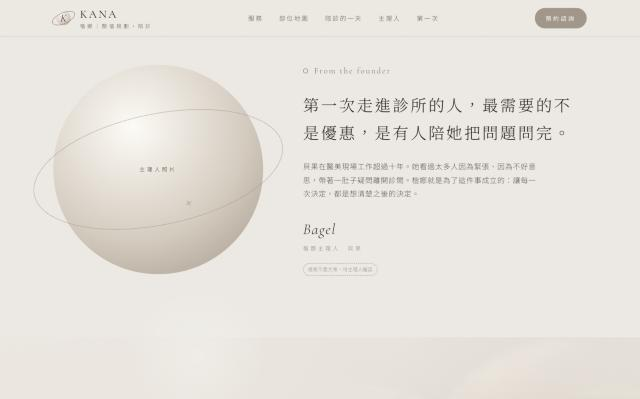
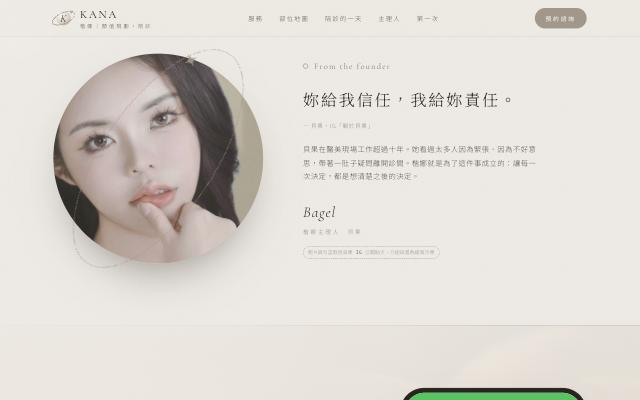
kana: 規劃書 v0.2

diff --git a/kana/plan/index.html b/kana/plan/index.html
@@ -3,7 +3,6 @@
 <head>
 <meta charset="utf-8">
 <meta name="robots" content="noindex, nofollow">
-
 <meta name="viewport" content="width=device-width, initial-scale=1">
 <title>楷娜官網設計規劃書</title>
 <link rel="preconnect" href="https://fonts.googleapis.com">
@@ -90,7 +89,7 @@ th{background:var(--paper-2);font-weight:500;letter-spacing:.08em;font-size:13px
 <body>
 <div class="layout">
 <nav class="toc" id="toc">
-  <div class="brand">KANA<small>官網設計規劃書 v0.1</small></div>
+  <div class="brand">KANA<small>官網設計規劃書 v0.2</small></div>
   <div class="grp">開始</div>
   <a href="#summary">一頁總覽</a>
   <a href="#source">分析來源與限制</a>
@@ -136,7 +135,7 @@ th{background:var(--paper-2);font-weight:500;letter-spacing:.08em;font-size:13px
   <div class="kicker">Website Design Plan</div>
   <h1>楷娜官網設計規劃書</h1>
   <p style="max-width:40em;color:var(--ink-2);position:relative">本文件說明楷娜官網提案原型「為什麼這樣設計、每個部件做什麼、帶來什麼功能優勢」。每個項目都有編號（例如 C-05），討論與修改時直接引用編號即可。</p>
-  <div class="meta" style="margin-top:20px"><span>提案方：優點整合行銷</span><span>委託：楷娜主理人 貝果</span><span>版本 v0.1・2026-11-25</span><span class="status">內部草稿・尚未與貝果確認</span></div>
+  <div class="meta" style="margin-top:20px"><span>提案方：優點整合行銷</span><span>委託：楷娜主理人 貝果</span><span>版本 v0.2・2026-11-25</span><span class="status">內部草稿・尚未與貝果確認</span></div>
   <p style="margin-top:18px;position:relative;font-size:14px">對應原型：<a href="../index.html">官網首頁</a>｜<a href="../admin.html">團隊後台</a>｜相關文件：品牌行銷策略規劃、線上預約系統需求（內部文件）</p>
 </header>
 
@@ -360,7 +359,7 @@ th{background:var(--paper-2);font-weight:500;letter-spacing:.08em;font-size:13px
         <li><b>沒有術前術後</b>：所有圖像都是氛圍，不是效果。</li>
         <li><b>預留文字空間</b>：每張圖的提示詞都寫明哪一側要留白給文字。</li>
       </ul>
-      <div class="note">正式上線建議：主理人區（C-07）必須換成貝果本人照片；陪診區可加入真實陪診花絮（客人同意後）。主視覺 AI 生成需在頁尾註明。</div>
+      <div class="note">主理人區（C-07）已使用貝果本人照片（取自她 IG 公開貼文），正式上線前需原始檔與授權。陪診區可加入真實陪診花絮（客人同意後）。主視覺 AI 生成需在頁尾註明。</div>
     </div>
     <div class="grid2" style="gap:10px">
       <div class="shot"><img src="../assets/hero.jpg" alt="首屏主視覺：石膏像與光球"></div>
@@ -446,10 +445,10 @@ th{background:var(--paper-2);font-weight:500;letter-spacing:.08em;font-size:13px
   <div class="comp" id="c07"><div class="shot"><img src="img/06_founder.jpg" alt="主理人"></div><div>
     <h3><span class="id">C-07</span>主理人</h3>
     <div class="row"><b>目的</b><p>把 IG 上 2.2 萬人認識的「貝果」，接到「楷娜」這個品牌上。</p></div>
-    <div class="row why"><b>為什麼</b><p>策略分析的核心發現：真正的品牌資產是貝果本人。這區放她的一句話和成立楷娜的原因，讓從貝果 IG 來的人感到熟悉，也讓新客認識她。照片用圓框加軌道，和全站一致。</p></div>
+    <div class="row why"><b>為什麼</b><p>策略分析的核心發現：真正的品牌資產是貝果本人。照片與引言「妳給我信任，我給妳責任。」都取自她 IG 置頂的「關於貝果」圖文，用的是她自己的語言，讓從她 IG 來的人一眼認出、感到熟悉。照片用圓框加軌道，和全站一致；這張的灰褐色調剛好與網站相同。</p></div>
     <div class="row adv"><b>功能優勢</b><ul class="dot"><li>建立「人」的信任，彌補官網冷冰冰的感覺</li><li>未來可加「追蹤貝果 IG」連結，形成雙向導流</li></ul></div>
-    <div class="row need"><b>素材</b><p><b>必要：</b>貝果本人照片；她親口確認的引言。</p></div>
-    <div class="row talk"><b>待討論</b><ul><li>引言內容（目前為提案示意）</li><li>「十年醫美經驗」是否要放，以及怎麼寫才不構成誇大宣稱</li></ul></div>
+    <div class="row need"><b>素材</b><p>照片 <code>assets/founder.jpg</code>（900×900，自 IG 圖文裁切）。<b>正式上線需：</b>原始高解析檔與使用授權。</p></div>
+    <div class="row talk"><b>待討論</b><ul><li>介紹段落（目前為提案示意）</li><li>照片是否沿用這張，或另拍形象照</li><li>「十年醫美經驗」是否要放，以及怎麼寫才不構成誇大宣稱</li></ul></div>
   </div></div>
 
   <div class="comp" id="c08"><div class="shot"><img src="img/07_booking.jpg" alt="線上預約"></div><div>
@@ -579,7 +578,7 @@ th{background:var(--paper-2);font-weight:500;letter-spacing:.08em;font-size:13px
     <tr><td>T-02</td><td>醫師名單、排班、諮詢時長、每時段人數</td><td>C-08、C-12</td><td>高</td></tr>
     <tr><td>T-03</td><td>陪診是否收費、誰可以申請、陪診員是否露名</td><td>C-04、C-06</td><td>高</td></tr>
     <tr><td>T-04</td><td>是否收訂金；改期與取消的截止時間</td><td>C-08</td><td>高</td></tr>
-    <tr><td>T-05</td><td>貝果照片與親口確認的引言</td><td>C-07</td><td>高</td></tr>
+    <tr><td>T-05</td><td>照片已取自 IG：需原始檔與授權；介紹段落待確認</td><td>C-07</td><td>高</td></tr>
     <tr><td>T-06</td><td>部位清單增減；審閱醫師是否具名</td><td>C-05</td><td>中</td></tr>
     <tr><td>T-07</td><td>三個入口是否改為參考圖的作品集／IG／預約</td><td>C-03</td><td>中</td></tr>
     <tr><td>T-08</td><td>Logo：沿用示意或另行設計</td><td>C-01</td><td>中</td></tr>
@@ -595,6 +594,7 @@ th{background:var(--paper-2);font-weight:500;letter-spacing:.08em;font-size:13px
   <div class="tw"><table>
     <tr><th>版本</th><th>日期</th><th>內容</th></tr>
     <tr><td>v0.1</td><td>2026-11-25</td><td>初版：全局視角、設計系統、13 個部件規劃、系統與合規、討論清單</td></tr>
+    <tr><td>v0.2</td><td>2026-11-25</td><td>C-07 主理人換上貝果照片與本人引言；手機版目錄改為橫向列</td></tr>
   </table></div>
   <p class="foot">優點整合行銷・內部草稿｜主視覺 AI 生成（Codex）｜醫師、時段與部分文案為示意，未拍板｜法規內容為公開資料整理，非法律意見</p>
 </section>
